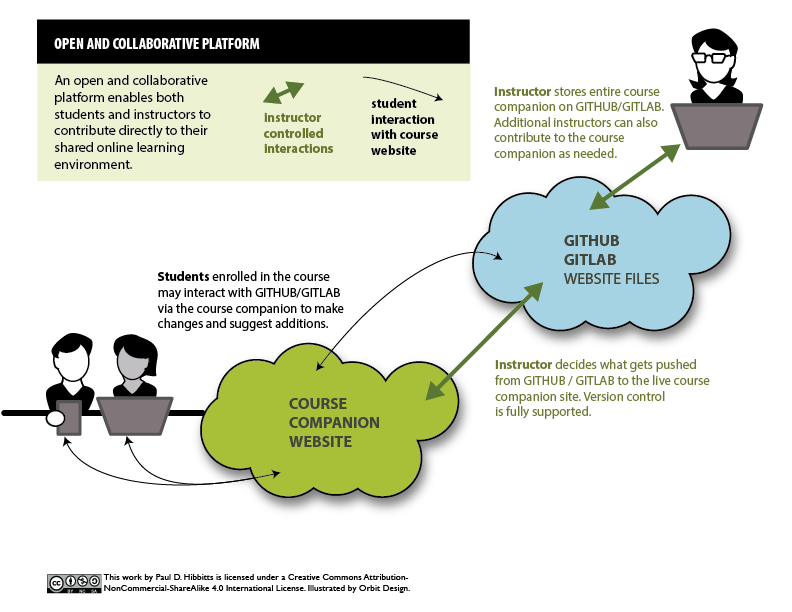
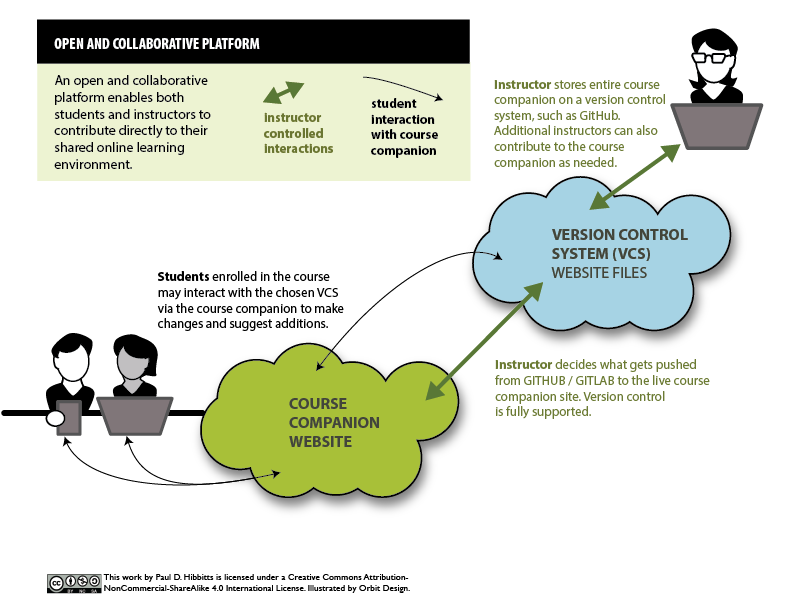
Post and images updated.

diff --git a/pages/blog/2015-12-18-flipped-lms-using-an-open-and-collaborative-platform/post.md b/pages/blog/2015-12-18-flipped-lms-using-an-open-and-collaborative-platform/post.md
@@ -31,8 +31,11 @@ _Figure 2. Open and collaborative platform._
 <br><br>
 ![Flipped-LMS approach using an open and collaborative platform](flipped-lms-open-collaborative-platform.png)  
 _Figure 3. Flipped-LMS approach using an open and collaborative platform._
+<br><br>
+![Flipped-LMS approach using Grav, GitHub, and Deploy](flipped-lms-grav-github-deploy.png)  
+_Figure 4. Flipped-LMS approach using Grav CMS, GitHub, and Deploy._
 
-Interested in exploring a live example of a flipped-LMS approach using an open and collaborative platform? Visit my [SFU](http://www.sfu.ca) CMPT 363 course companion at [http://cmpt-363-153.hibbittsdesign.com/](http://cmpt-363-153.hibbittsdesign.com/), built with [Grav](http://getgrav.org).
+Interested in exploring a live example of a flipped-LMS approach built with [Grav](http://getgrav.org) CMS and using [GitHub](http:www.github.com) and [Deploy](http://deployhq.com)? Visit my [SFU](http://www.sfu.ca) CMPT 363 course companion at [http://cmpt-363-153.hibbittsdesign.com/](http://cmpt-363-153.hibbittsdesign.com/) and it's GitHub file repository at [https://github.com/paulhibbitts/cmpt-363-153-website/](https://github.com/paulhibbitts/cmpt-363-153-website/).
 
 You can also learn more about the super efficient workflow that happens behind-the-scenes in my earlier article [
 My Dream Workflow as an Instructor)](../my-dream-workflow-as-an-instructor).
